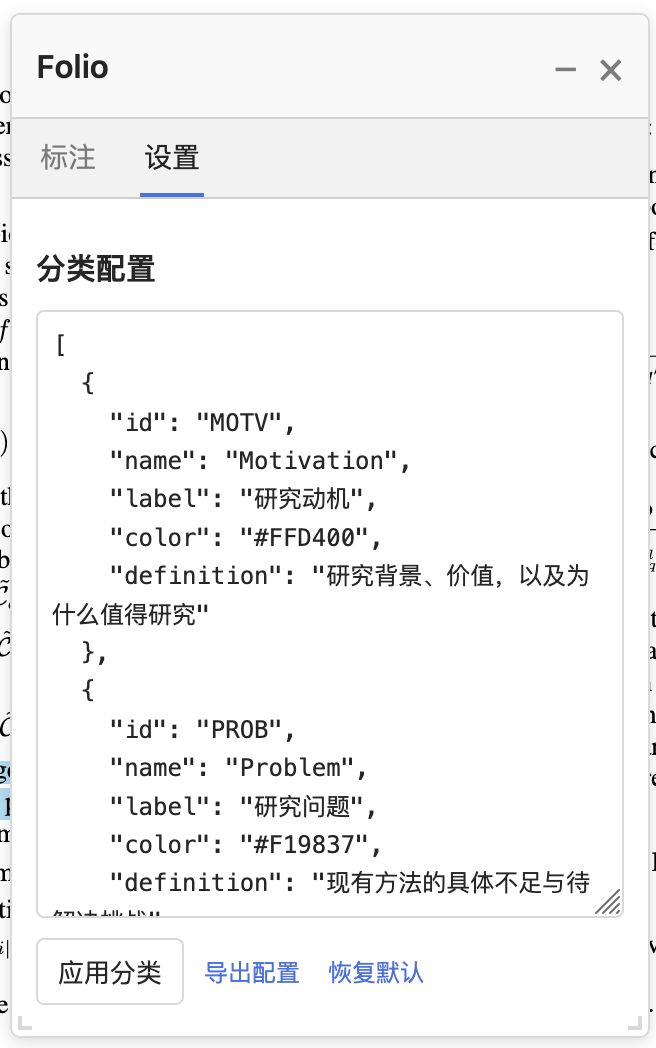
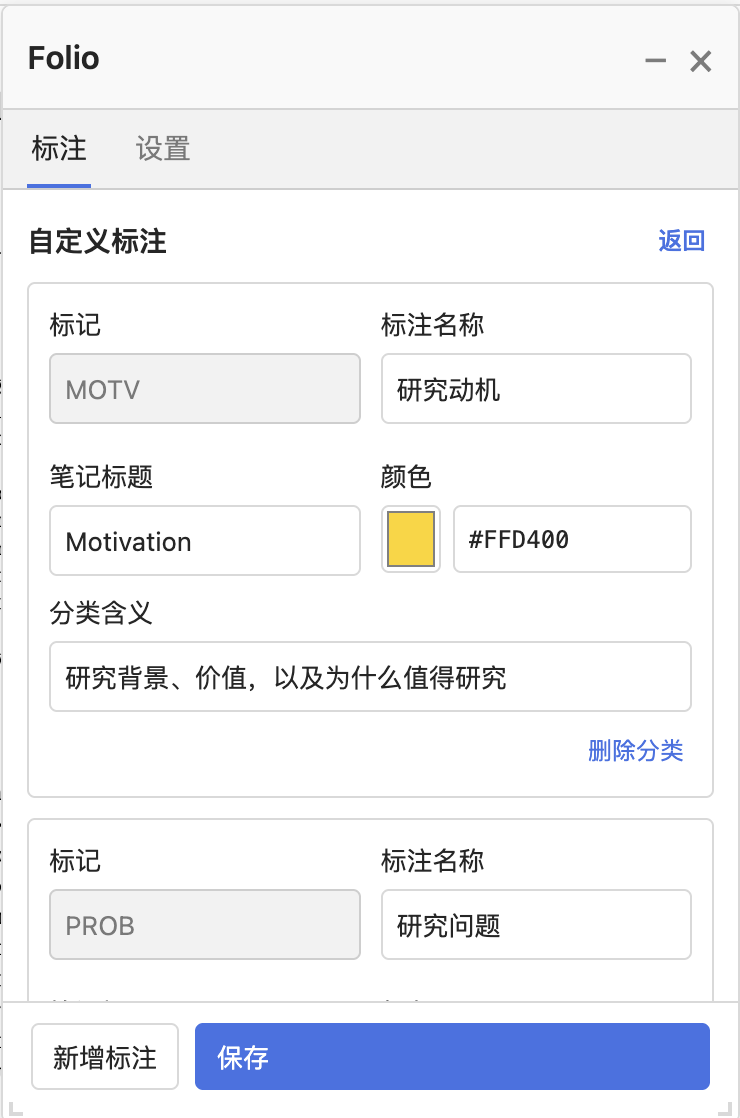
新增自定义标签功能

diff --git a/src/panel.js b/src/panel.js
@@ -9,7 +9,7 @@ var FolioPanel = (() => {
     const tabs=el('nav','folio-tabs');const body=el('div','folio-body');const footerHost=el('div','folio-bottom');root.append(tabs,body,footerHost);
     const win=doc.defaultView;
     const pointerDocs=new Set();
-    function finishComment(event){const editor=doc.activeElement;if(editor?.matches('.folio-comment,.folio-api-key')&&(!event||event.target!==editor))editor.blur();}
+    function finishComment(event){const editor=doc.activeElement;if(editor?.matches('.folio-comment,.folio-api-key,.folio-category-form input')&&(!event||event.target!==editor))editor.blur();}
     function watchCommentExit(targetDoc){
       if(!pointerDocs.has(targetDoc)){targetDoc.addEventListener('pointerdown',finishComment,true);pointerDocs.add(targetDoc);}
       for(const frame of targetDoc.querySelectorAll('iframe')){try{if(frame.contentDocument)watchCommentExit(frame.contentDocument);}catch{}}
@@ -62,7 +62,7 @@ var FolioPanel = (() => {
       if(['ArrowLeft','ArrowRight','ArrowUp','ArrowDown'].includes(e.key)){e.preventDefault();layout({width:normal.width+(e.key==='ArrowLeft'?-20:e.key==='ArrowRight'?20:0),height:normal.height+(e.key==='ArrowUp'?-20:e.key==='ArrowDown'?20:0)});persistLayout();}
     };});
     const onResize=()=>layout();win.addEventListener('resize',onResize);layout();
-    let tab='annotations',filter='all',source='all',exportTranslations='all',exportTranslationEnabled=false;
+    let tab='annotations',filter='all',source='all',exportTranslations='all',exportTranslationEnabled=false,categoryDraft=null,categoryError='',categorySaving=false;
     const selectedTranslations=new Set();
     const translationViews=new Map();
     const button=(text,cls,fn)=>{const n=el('button',cls,text);n.type='button';n.onclick=()=>Promise.resolve().then(fn).catch(api.error);return n;};
@@ -70,11 +70,34 @@ var FolioPanel = (() => {
     const select=(items,value,fn)=>{const n=el('select');for(const [v,t] of items){const o=el('option','',t);o.value=v;n.append(o);}n.value=value;n.onchange=()=>fn(n.value);return n;};
     const input=(value,type='text')=>{const n=el('input');n.type=type;n.value=value||'';return n;};
     const tabA=button('标注','',()=>{tab='annotations';render();});const tabB=button('设置','',()=>{tab='settings';render();});tabs.append(tabA,tabB);
+    function openCategories(){categoryDraft=state.categories.map(c=>({...c,_existing:true}));categoryError='';render();body.scrollTop=0;}
+    function categoryEditor(){
+      const heading=el('div','folio-section-title');heading.append(el('span','','自定义标注'),button('返回','folio-text',()=>{categoryDraft=null;categoryError='';render();}));body.append(heading);
+      const list=el('div','folio-category-editor');body.append(list);
+      categoryDraft.forEach((c,index)=>{
+        const card=el('section','folio-category-form');card.setAttribute('data-category-index',index);list.append(card);
+        const grid=el('div','folio-category-fields');card.append(grid);
+        const code=input(c.id);code.maxLength=10;code.spellcheck=false;code.readOnly=!!c._existing;code.title=code.readOnly?'已有标记用于关联原标注，保持不变':'2–10 位英文字母、数字或下划线，以字母开头';code.setAttribute('aria-label','标记');code.oninput=()=>{c.id=code.value.toUpperCase();};grid.append(field('标记',code));
+        const label=input(c.label);label.setAttribute('aria-label','标注名称');label.oninput=()=>{c.label=label.value;};grid.append(field('标注名称',label));
+        const name=input(c.name);name.setAttribute('aria-label','笔记标题');name.oninput=()=>{c.name=name.value;};grid.append(field('笔记标题',name));
+        const colors=el('div','folio-color-fields');const picker=input(c.color,'color'),hex=input(c.color);picker.setAttribute('aria-label','选择颜色');hex.setAttribute('aria-label','HEX 色号');hex.maxLength=7;hex.spellcheck=false;
+        picker.oninput=()=>{c.color=picker.value.toUpperCase();hex.value=c.color;};hex.oninput=()=>{c.color=hex.value.trim().toUpperCase();if(/^#[0-9A-F]{6}$/.test(c.color))picker.value=c.color;};colors.append(picker,hex);grid.append(field('颜色',colors));
+        const definition=input(c.definition);definition.setAttribute('aria-label','分类含义');definition.oninput=()=>{c.definition=definition.value;};card.append(field('分类含义',definition));
+        for(const editor of card.querySelectorAll('input[type=text]')){editor.setAttribute('contenteditable','true');editor.onfocus=()=>api.editComment();}
+        const remove=button('删除分类','folio-text folio-category-delete',()=>{categoryDraft.splice(index,1);categoryError='';render();});remove.disabled=categoryDraft.length<=1||categorySaving;remove.title=categoryDraft.length<=1?'至少保留一个分类':'保存后移除此分类；已有原文高亮和评论保留';remove.setAttribute('data-delete-category',c.id);card.append(remove);
+      });
+      if(categoryError){const error=el('div','folio-error',categoryError);error.setAttribute('role','alert');body.append(error);}
+      const actions=el('div','folio-footer');
+      const add=button('新增标注','folio-secondary',()=>{let n=1;while(categoryDraft.some(c=>c.id==='TAG'+n))n++;const colors=['#7B61A8','#287D8E','#BD6686','#B07B35','#6576A8'];let color=colors.find(color=>!categoryDraft.some(c=>c.color.toUpperCase()===color));if(!color){let value=1;while(categoryDraft.some(c=>c.color.toUpperCase()==='#'+value.toString(16).padStart(6,'0').toUpperCase()))value++;color='#'+value.toString(16).padStart(6,'0').toUpperCase();}categoryDraft.push({id:'TAG'+n,label:'自定义标注',name:'自定义标注',color,definition:'自定义分类'});render();body.querySelector('.folio-category-editor')?.lastElementChild?.scrollIntoView({block:'nearest'});});
+      const save=button('保存','folio-primary',async()=>{categorySaving=true;save.disabled=true;add.disabled=true;try{const cats=FolioCore.categories(categoryDraft);await flushComments();await api.categories(cats);categoryDraft=null;categoryError='';state.message='标注配置已保存';state.error=false;}catch(e){categoryError=e.message||String(e);}finally{categorySaving=false;render();}});add.disabled=save.disabled=categorySaving||state.busy;actions.append(add,save);footerHost.hidden=false;footerHost.append(actions);
+    }
     function render() {
       if(!root.isConnected) return;
       translationViews.clear();
-      tabA.className=tab==='annotations'?'active':'';tabB.className=tab==='settings'?'active':'';body.replaceChildren();footerHost.replaceChildren();footerHost.hidden=tab==='settings';
+      tabA.className=tab==='annotations'?'active':'';tabB.className=tab==='settings'?'active':'';body.replaceChildren();footerHost.replaceChildren();footerHost.hidden=tab==='settings'||!!categoryDraft;
       if(tab==='settings') { settings(); return; }
+      if(categoryDraft){categoryEditor();return;}
+      const activeDrafts=state.drafts.filter(a=>state.categories.some(c=>c.id===a.category));
       const modes=el('div','folio-modes');for(const [id,name] of [['Manual','人工标注'],['AI','AI 自动']])modes.append(button(name,state.mode===id?'active':'',()=>{state.mode=id;api.persist();render();}));body.append(modes);
       if(state.mode!=='Manual') {
         const box=el('section','folio-analyze');
@@ -91,7 +114,7 @@ var FolioPanel = (() => {
       }
       if(state.message){const msg=el('div',state.error?'folio-error':'folio-status',state.message);msg.setAttribute('role','status');if(!state.error&&state.message.startsWith('已移除 ')&&api.canRestore()){const undo=button('恢复','folio-text',async()=>{await flushComments();await api.restoreAnnotations();});undo.setAttribute('data-restore-removal','true');undo.style.marginLeft='8px';msg.append(undo);}body.append(msg);}
       if(state.busy){const p=el('progress');p.max=100;p.value=state.progress||0;body.append(p);}
-      const title=el('div','folio-section-title');title.append(el('span','','分类'),el('span','folio-small',state.native.length+' 已保存 '+state.drafts.length+' 草稿'));body.append(title);
+      const title=el('div','folio-section-title');title.append(el('span','','分类'),el('span','folio-small',state.native.length+' 已保存 '+activeDrafts.length+' 草稿'));const customize=button('自定义标注','folio-text',async()=>{await flushComments();openCategories();});customize.setAttribute('data-action','customize-categories');customize.disabled=state.busy||state.saving||state.removing;title.append(customize);body.append(title);
       const cats=el('div','folio-categories');
       for(const c of state.categories){const count=[...state.native,...state.drafts].filter(a=>a.category===c.id).length;const b=button('','folio-category'+(filter===c.id?' active':''),()=>{filter=filter===c.id?'all':c.id;render();api.overlay();});b.title=c.definition;b.style.setProperty('--category',c.color);b.append(el('i'),el('b','',c.id),el('span','',c.label),el('em','',String(count)));cats.append(b);}body.append(cats);
       const display=el('div','folio-display');for(const [k,t] of [['labels','页边标签'],...(state.mode==='Manual'?[]:[['highlights','草稿高亮']])]){const n=input('','checkbox');n.checked=state.display[k];n.onchange=()=>{state.display[k]=n.checked;api.persist();api.overlay();};const l=el('label');l.append(n,doc.createTextNode(t));display.append(l);}
@@ -107,7 +130,8 @@ var FolioPanel = (() => {
       for(const [scope,label] of [['AI','移除 AI 标注'],['Manual','移除人工标注'],['all','移除全部标注']]){const action=button(label,'',async()=>{bulk.open=false;action.disabled=true;try{await flushComments();await api.removeAnnotations(scope);}finally{action.disabled=false;}});action.setAttribute('data-remove-scope',scope);action.disabled=state.busy||state.saving||state.removing||!api.removalCount(scope);menu.append(action);}
       if(api.canRestore()){const restore=button('恢复上次移除','',async()=>{bulk.open=false;restore.disabled=true;try{await flushComments();await api.restoreAnnotations();}finally{restore.disabled=false;}});restore.setAttribute('data-restore-removal','true');restore.disabled=state.busy||state.saving||state.removing;menu.append(restore);}
       bulk.append(menu);listControls.append(bulk);listHead.append(listControls);body.append(listHead);
-      const entries=[...state.drafts,...state.native].filter(a=>(filter==='all'||a.category===filter)&&(source==='all'||(source==='Draft'?a.status==='Draft':a.source===source)));
+      if(filter!=='all'&&!state.categories.some(c=>c.id===filter))filter='all';
+      const entries=[...activeDrafts,...state.native].filter(a=>(filter==='all'||a.category===filter)&&(source==='all'||(source==='Draft'?a.status==='Draft':a.source===source)));
       const list=el('div','folio-list');
       if(!entries.length)list.append(el('div','folio-empty','暂无标注'));
       for(const a of entries){const c=state.categories.find(c=>c.id===a.category);if(!c)continue;const card=el('article','folio-card');card.style.setProperty('--category',c.color);card.setAttribute('data-annotation-id',a.annotationID);
@@ -148,7 +172,7 @@ var FolioPanel = (() => {
         comment.onblur=()=>flushComments().catch(api.error);card.append(comment);list.append(card);
       }body.append(list);
       const footer=el('footer','folio-footer');
-      if(state.mode!=='Manual'&&state.drafts.length){const apply=button('保存选中草稿 '+state.drafts.filter(a=>a.selected).length,'folio-primary',async()=>{await flushComments();await api.apply(state.drafts.filter(a=>a.selected));});apply.disabled=state.busy||!state.drafts.some(a=>a.selected);footer.append(apply);}
+      if(state.mode!=='Manual'&&activeDrafts.length){const apply=button('保存选中草稿 '+activeDrafts.filter(a=>a.selected).length,'folio-primary',async()=>{await flushComments();await api.apply(activeDrafts.filter(a=>a.selected));});apply.disabled=state.busy||!activeDrafts.some(a=>a.selected);footer.append(apply);}
       footer.append(button('导出笔记','folio-secondary',async()=>{await flushComments();await api.export({translations:exportTranslationEnabled?exportTranslations:'none',selected:[...selectedTranslations]});}));footerHost.append(footer);
     }
     function settings(){

diff --git a/src/plugin.js b/src/plugin.js
@@ -188,14 +188,14 @@ var FolioPlugin = (() => {
       config:(c,key)=>configure(s,c,key),
       clearKey:async()=>{await storeKey(s.config,'');for(const current of sessions.values())if(credentialRealm(current.config)===credentialRealm(s.config))current.hasAPIKey=false;},
       testModel:async()=>{const result=await request(s,[{role:'system',content:'Return only JSON: {"ok":true}.'},{role:'user',content:'Test the connection. Return JSON.'}]);if(result.ok!==true)throw Error('接口已响应，但未返回预期的 JSON，请检查模型配置');message(s,'连接成功');},
-      categories:async cats=>{s.categories=cats;pref('categories',cats);for(const other of sessions.values()){other.categories=cats;refresh(other);}},
+      categories:async values=>{if([...sessions.values()].some(other=>other.busy||other.saving||other.removing))throw Error('请等待分析或标注操作完成后再修改分类');const cats=FolioCore.categories(values);pref('categories',cats);for(const other of sessions.values()){other.categories=cats;refresh(other);other.panel?.refresh();}},
       export:options=>exportNotes(s,options),exportCategories:()=>saveFile(s,'folio-categories.json',JSON.stringify(s.categories,null,2))
     };
     s.panel=FolioPanel.mount(doc,s,api,cssText);setPanelVisible(s,panelVisibility.get(s.itemID)??visible);watchSelection(s);refresh(s);return s;
   }
   function injectToolbar({reader,doc,append}) {
     if(reader.type!=='pdf' && reader._type!=='pdf' && !Zotero.Items.get(reader.itemID)?.isPDFAttachment())return;
-    const b=doc.createElement('button');b.textContent='Folio';b.title='Folio 1.0.10 语义阅读';b.style.cssText='box-sizing:border-box;align-self:center;height:24px;min-height:0;padding:1px 8px;border:1px solid var(--color-border,#ccc);border-radius:4px;color:var(--fill-primary,#222);background:var(--material-button,#fff);font:13px/18px -apple-system,BlinkMacSystemFont,sans-serif;margin:3px 6px;cursor:pointer;flex-shrink:0';
+    const b=doc.createElement('button');b.textContent='Folio';b.title='Folio 语义阅读';b.style.cssText='box-sizing:border-box;align-self:center;height:24px;min-height:0;padding:1px 8px;border:1px solid var(--color-border,#ccc);border-radius:4px;color:var(--fill-primary,#222);background:var(--material-button,#fff);font:13px/18px -apple-system,BlinkMacSystemFont,sans-serif;margin:3px 6px;cursor:pointer;flex-shrink:0';
     b.className='folio-toolbar';session(reader,doc,false);
     // First click opens; subsequent clicks toggle without remounting.
     b.onclick=()=>{const s=session(reader,doc,false);setPanelVisible(s,!s.panelVisible);};append(b);

diff --git a/src/style.css b/src/style.css
@@ -12,3 +12,6 @@
 .folio-list-controls{display:flex;align-items:center;gap:8px;font-weight:400}.folio-bulk{position:relative;font-size:12px}.folio-bulk summary{list-style:none;cursor:pointer;padding:5px 7px;border:1px solid var(--folio-border);border-radius:4px;white-space:nowrap;color:var(--folio-text);font-size:12px}.folio-bulk summary::-webkit-details-marker{display:none}.folio-bulk-menu{position:absolute;right:0;top:calc(100% + 4px);z-index:5;min-width:142px;padding:4px;background:var(--folio-bg);border:1px solid var(--folio-border);border-radius:4px;box-shadow:0 3px 10px #0002}.folio-bulk-menu button{display:block;width:100%;text-align:left;white-space:nowrap;padding:7px 9px;font-size:12px;border-radius:3px}.folio-bulk-menu button:not(:disabled):hover{background:var(--folio-pane)}
 
 .folio-list-controls>select,.folio-list-controls .folio-bulk summary{box-sizing:border-box;height:30px;min-height:30px;font-size:12px;line-height:18px;padding:5px 7px}.folio-list-controls .folio-bulk summary{display:flex;align-items:center}
+
+.folio-category-editor{display:flex;flex-direction:column;gap:10px}.folio-category-form{min-width:0;padding:10px;border:1px solid var(--folio-border);border-radius:4px}.folio-category-fields{display:grid;grid-template-columns:minmax(0,1fr) minmax(0,1fr);gap:8px 10px}.folio-category-form .folio-field{min-width:0;margin:0 0 8px}.folio-category-form>.folio-field{margin-bottom:0}.folio-category-form input{min-width:0;font-size:13px}.folio-category-form input[readonly]{color:var(--folio-muted);background:var(--folio-pane)}.folio-color-fields{display:flex;align-items:center;gap:6px;min-width:0}.folio-color-fields input[type=color]{flex:0 0 30px;width:30px;height:34px;padding:2px;cursor:pointer}.folio-color-fields input[type=text]{flex:1;width:0;font:12px/1.5 ui-monospace,monospace}.folio-category{min-width:0}.folio-category span{overflow:hidden;text-overflow:ellipsis}.folio-category b,.folio-category em{flex-shrink:0}
+.folio-category-delete{display:block;margin:6px 0 0 auto}

diff --git a/scripts/audit-public.py b/scripts/audit-public.py
@@ -17,6 +17,7 @@ PUBLIC_FILES = {
     'docs/media/overview.png', 'docs/media/margin-labels.png',
     'docs/media/export-notes.png', 'docs/media/model-settings.png',
     'docs/media/category-settings.png', 'docs/media/manual-annotation.gif',
+    'docs/media/custom-annotation.png', 'docs/media/color-picker.png',
     'docs/media/ai-review.gif',
 }
 PATTERNS = {

diff --git a/README.en.md b/README.en.md
@@ -5,7 +5,7 @@
 <p align="center"><strong>Give your highlights meaning. Turn your reading into structured notes.</strong></p>
 
 <p align="center">
-  <a href="https://github.com/panhh0804/folio-zotero/releases"><img src="https://img.shields.io/badge/version-1.0.11-4263eb" alt="Version 1.0.11"></a>
+  <a href="https://github.com/panhh0804/folio-zotero/releases"><img src="https://img.shields.io/badge/version-1.0.12-4263eb" alt="Version 1.0.12"></a>
   <img src="https://img.shields.io/badge/Zotero-10.0.7%2B-CC2936" alt="Zotero 10.0.7 and later in the 10.0 series">
   <a href="LICENSE"><img src="https://img.shields.io/badge/license-Apache%202.0-blue" alt="Apache 2.0"></a>
 </p>
@@ -31,6 +31,7 @@ Annotate passages yourself, or let AI suggest important sentences for you to rev
 | Remember why a highlighted sentence matters | Six semantic categories distinguish background, problems, methods, and conclusions |
 | Keep the paper's structure visible as you read | Margin labels remain visible and scale with the PDF page |
 | Use AI without giving up your own judgment | Review drafts, change categories, accept or reject suggestions, and save selected results |
+| Use your own reading framework | Customize category identifiers, names, colors, and definitions across manual and AI modes |
 | Record your interpretation alongside the evidence | Add automatically saved comments to annotation cards |
 | Translate passages when you need to | Share the selection popup with Translate for Zotero, or translate individual cards on demand |
 | Reuse your reading notes afterward | Export Markdown grouped by category, with page references, comments, and optional translations |
@@ -55,15 +56,49 @@ Six categories are provided by default. You can customize their names, colors, a
 | 🟣 **LIMT** | Limitation | Limitations, assumptions, and boundaries of applicability |
 
 <details>
-<summary>A closer look at margin labels and custom categories</summary>
+<summary>A closer look at margin labels</summary>
 
 Margin labels follow the positions of the original passages and scale with the page. Ordinary colored highlights and semantic categories are separate by default: a highlight becomes a Folio annotation when you explicitly assign a category.
 
 <p align="center"><img src="docs/media/margin-labels.png" width="760" alt="Semantic highlights and persistent margin labels in a two-column paper"></p>
 
-Edit the category JSON under Settings → Category configuration (`设置 → 分类配置`). You can import or export your configuration and restore the defaults.
+</details>
 
-<p align="center"><img src="docs/media/category-settings.png" width="440" alt="Editing, applying, exporting, and resetting Folio categories"></p>
+### Customize annotations for the way you read
+
+Click Customize annotations (`自定义标注`) in the category bar of either Manual annotation (`人工标注`) or AI automatic (`AI 自动`) mode. Edit categories through a visual form without writing JSON. Both modes share the same configuration across PDFs, and settings are retained after restart.
+
+- **Add categories:** go beyond the six defaults with your own labels, such as “To verify” or “Reusable method.”
+- **Choose names and colors:** use the color picker or enter a HEX value. Colors are not limited to Zotero’s default palette.
+- **Guide AI classification:** describe what belongs in each category; subsequent AI analyses use your saved definitions.
+- **Delete categories:** remove any category while keeping at least one. Click Save (`保存`) to apply your edits, or Back (`返回`) to discard unsaved changes.
+
+<p align="center"><img src="docs/media/category-settings.png" width="440" alt="Folio visual category editor with display names, note headings, colors, definitions, and category deletion"></p>
+
+<details>
+<summary>Adding a category, choosing colors, and understanding the fields</summary>
+
+Click Add annotation (`新增标注`) at the bottom, fill in the new category, and save. Its identifier will appear in the selection popup, category bar, and margin labels.
+
+| Field | Purpose |
+| --- | --- |
+| Identifier (`标记`) | The abbreviation on category buttons and margin labels; choose one for a new category. Saved identifiers stay fixed to preserve existing annotation links. |
+| Display name (`标注名称`) | The category name shown in the panel |
+| Note heading (`笔记标题`) | The category heading used in Markdown exports |
+| Color (`颜色`) | Choose with the picker or enter a `#RRGGBB` value; each category uses a different color |
+| Definition (`分类含义`) | Describe which passages belong in this category; also used for AI classification |
+
+<p align="center"><img src="docs/media/custom-annotation.png" width="440" alt="Adding a custom category with an identifier, display name, note heading, HEX color, and definition"></p>
+
+Click the color swatch to open the system color picker, or enter a HEX value directly.
+
+<p align="center"><img src="docs/media/color-picker.png" width="760" alt="Choosing a custom highlight color with the macOS system color picker in Folio"></p>
+
+New highlights use an updated category color. Existing native highlights keep their original color, while margin labels use the current category color.
+
+Delete category (`删除分类`) hides the category’s buttons, margin labels, and drafts while preserving existing native highlights, comments, and association records. Adding the same identifier again restores the association. This differs from Remove annotation (`移除标注`) on an annotation card.
+
+The advanced editor under Settings → Category configuration (`设置 → 分类配置`) remains available for importing, exporting, and restoring default categories.
 
 </details>
 
@@ -81,7 +116,7 @@ Write a comment in an annotation card. Clicking outside the field ends editing a
 
 Click Export notes (`导出笔记`) to create a Markdown file named `阅读笔记-<paper title>.md`:
 
-- Passages are grouped under Motivation, Problem, Insight, Solution, Results, and Limitation.
+- Passages are grouped by each category’s Note heading (`笔记标题`). Defaults are Motivation, Problem, Insight, Solution, Results, and Limitation; custom headings are supported.
 - Page references follow the original text, for example `Original passage ——p2`.
 - Your comments are exported with their corresponding passages.
 - Enable Export translations (`导出译文`) to include all generated translations, or choose translations from specific cards.
@@ -92,7 +127,7 @@ Export includes translations that have already been generated. It does not make 
 
 ## Installation
 
-Current version: **1.0.11**. The plugin manifest supports **Zotero 10.0.7 and later releases in the 10.0.x series**. Tested on macOS with Zotero 10.0.7; other platforms have not been verified.
+Current version: **1.0.12**. The plugin manifest supports **Zotero 10.0.7 and later releases in the 10.0.x series**. Tested on macOS with Zotero 10.0.7; other platforms have not been verified.
 
 1. Download a published `.xpi` from [Releases](https://github.com/panhh0804/folio-zotero/releases). If no release package is available yet, build from source using the instructions below.
 2. In Zotero, open **Tools → Plugins**.
@@ -110,7 +145,7 @@ cd folio-zotero
 npm run verify
 ```
 
-The installation package is written to `dist/Folio-1.0.11.xpi`. Run `npm run package:source` if you also need a source ZIP.
+The installation package is written to `dist/Folio-1.0.12.xpi`. Run `npm run package:source` if you also need a source ZIP.
 
 </details>
 
